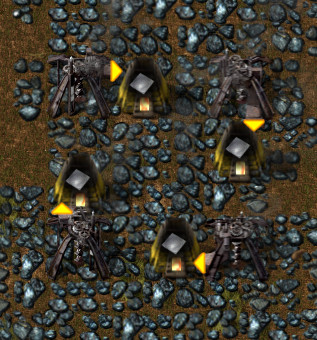
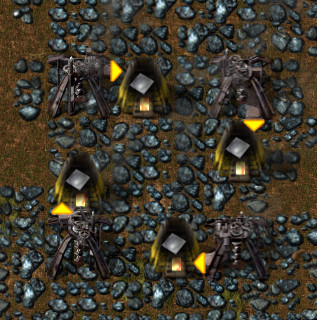
More consistent images, better layout

diff --git a/04-collecting-resources.html b/04-collecting-resources.html
@@ -13,12 +13,14 @@ title: Collecting resources
 
 <p>Stone is also needed early in the game, but stone bricks are not. So for the stone patches it's reccomended to have the miner deposit directly into a chest intially.</p>
 
-<div class="cont-left"><img src="img/3.jpg" width="317" /></div>
+<div class="col-wrapper">
+<div class="cont-left"><img src="img/3.jpg" /></div>
 
-<div class="cont-center"><img src="img/stone-mining-chest.jpg" width="301" /></div>
+<div class="cont-center"><img src="img/stone-mining-chest.jpg" /></div>
 
-<div class="cont-right"><img src="img/4.jpg" width="317" /></div>
-<p>With coal, it isn't needed to smelt it or refine it any further than it already is, so you just mine it and use the Coal directly. There are two methods for mining and collecting it. Either do the same as you did with the stone and just have it inserted directly into a chest, or use a  little trick illustrated in the picture below:</p>
+<div class="cont-right"><img src="img/4.jpg" /></div>
+</div>
+<p>With coal, it isn't needed to smelt it or refine it any further than it already is, so you just mine it and use the Coal directly. There are two methods for mining and collecting it. Either do the same as you did with the stone and just have it inserted directly into a chest, or use a  little trick illustrated in the picture above.</p>
 
 
 <p>Notice how the miners are all facing each other with their outputs. This allows the miners to output their coal into the next one, and keep it running. This works well because it gives the miners a constant supply of fuel, and allows them to work indefinitely. You can then take some of the coal from the fuel slot, for use in the other burner machinery.</P>
